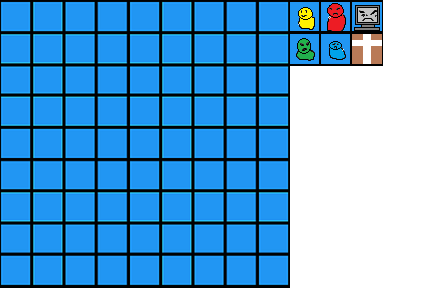
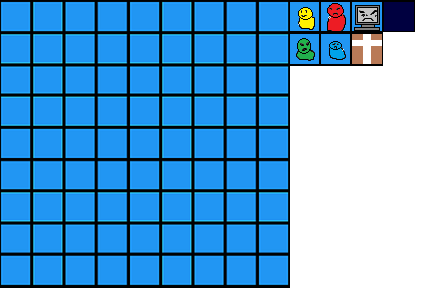
added image sprite and class tile for wall

Changed region(s): [[0.8687, 0.0, 0.9585, 0.125]]

diff --git a/src/main/java/io/github/monstersunited/monstergame/client/gui/features/world.java b/src/main/java/io/github/monstersunited/monstergame/client/gui/features/world.java
@@ -1,9 +1,6 @@
 package io.github.monstersunited.monstergame.client.gui.features;
 
-import io.github.monstersunited.monstergame.objects.Board;
-import io.github.monstersunited.monstergame.objects.Box;
-import io.github.monstersunited.monstergame.objects.Entity;
-import io.github.monstersunited.monstergame.objects.Player;
+import io.github.monstersunited.monstergame.objects.*;
 
 import java.awt.*;
 
@@ -48,11 +45,13 @@ public class world {
 
         for (int i = 0; i < 9; i++) {
             for (int j = 0; j < 9; j++) {
-                if (board.getPieceAt(i,j) instanceof Player){
-                    tiles[i][j] = 2;
-                } else if (board.getPieceAt(i,j) instanceof Box) {
+                if (board.getPieceAt(i, j) instanceof Player) {
+                    tiles[i][j] = 3;
+                } else if (board.getPieceAt(i, j) instanceof Box) {
                     tiles[i][j] = 1;
-                } else {
+                } else if(board.getPieceAt(i, j) instanceof Wall){
+                    tiles[i][j] = 2;
+                }else {
                     tiles[i][j] = 0;
                 }
 

diff --git a/src/main/java/io/github/monstersunited/monstergame/client/gui/features/Assets.java b/src/main/java/io/github/monstersunited/monstergame/client/gui/features/Assets.java
@@ -7,7 +7,7 @@ import java.awt.image.BufferedImage;
 
 public class Assets {
     private static final int width = 32, height = 32;
-    public static BufferedImage player1, player2, player3, player4, tile, box, AI, player;
+    public static BufferedImage player1, player2, player3, player4, tile, box, wall, AI, player;
     private static int counter;
 
     public static void init() {
@@ -17,6 +17,7 @@ public class Assets {
         player1 = sheet.crop(288, 0, width, height);
         player2 = sheet.crop(288 + width, 0, width, height);
         AI = sheet.crop(288 + (width * 2), 0, width, height);
+        wall = sheet.crop(288 + (width * 3), 0, width, height);
         player3 = sheet.crop(288, height, width, height);
         player4 = sheet.crop(288 + width, height, width, height);
         box = sheet.crop(288 + (width * 2), height, width, height);

diff --git a/src/main/java/io/github/monstersunited/monstergame/objects/Board.java b/src/main/java/io/github/monstersunited/monstergame/objects/Board.java
@@ -1,5 +1,7 @@
 package io.github.monstersunited.monstergame.objects;
 
+import io.github.monstersunited.monstergame.client.gui.features.Assets;
+
 import java.io.Serializable;
 import java.util.ArrayList;
 import java.util.List;
@@ -19,7 +21,7 @@ public class Board implements Serializable{
         boardPieces.add(new Monster(5,5));
         // TODO
         // Initialise the board to include walls
-        //this.boardPiece(1,1,new wall());
+
     }
 
     public List<Player> getPlayers() {

diff --git a/src/main/java/io/github/monstersunited/monstergame/client/gui/features/TileGrid.java b/src/main/java/io/github/monstersunited/monstergame/client/gui/features/TileGrid.java
@@ -10,7 +10,8 @@ public class TileGrid {
     public static TileGrid[] tile = new TileGrid[256];
     public static TileGrid boardTile = new boardTile(0);
     public static TileGrid boxTile = new boxTile(1);
-    public static TileGrid playerTile = new playerTiles(2);
+    public static TileGrid wallTile = new playerTiles(2);
+    public static TileGrid playerTile = new playerTiles(3);
 
     //class
     public static final int TILEWIDTH = 32, TILEHEIGHT = 32;

diff --git a/src/main/java/io/github/monstersunited/monstergame/objects/Wall.java b/src/main/java/io/github/monstersunited/monstergame/objects/Wall.java
@@ -4,4 +4,14 @@ import java.io.Serializable;
 
 public class Wall extends BoardPiece implements Serializable {
 
+    public Wall(int x, int y) {
+        collisionLocation();
+    }
+        //placeholder
+        //insert collisions
+
+
+    public int collisionLocation(){
+        return 3;
+    }
 }

diff --git a/src/main/java/io/github/monstersunited/monstergame/client/gui/features/wallTile.java b/src/main/java/io/github/monstersunited/monstergame/client/gui/features/wallTile.java
@@ -1,0 +1,11 @@
+package io.github.monstersunited.monstergame.client.gui.features;
+
+public class wallTile extends TileGrid{
+        public wallTile(int id) {
+            super(Assets.wall,id);
+        }
+        @Override
+        public boolean isSolid() {
+            return true;
+        }
+}

diff --git a/src/main/java/io/github/monstersunited/monstergame/objects/Box.java b/src/main/java/io/github/monstersunited/monstergame/objects/Box.java
@@ -14,6 +14,9 @@ public class Box extends BoardPiece implements Serializable {
         this.timer = time;
     }
 
+    public Box(int x,int y){
+
+    }
     public int getTimeLeft() {
         return timer;
     }
